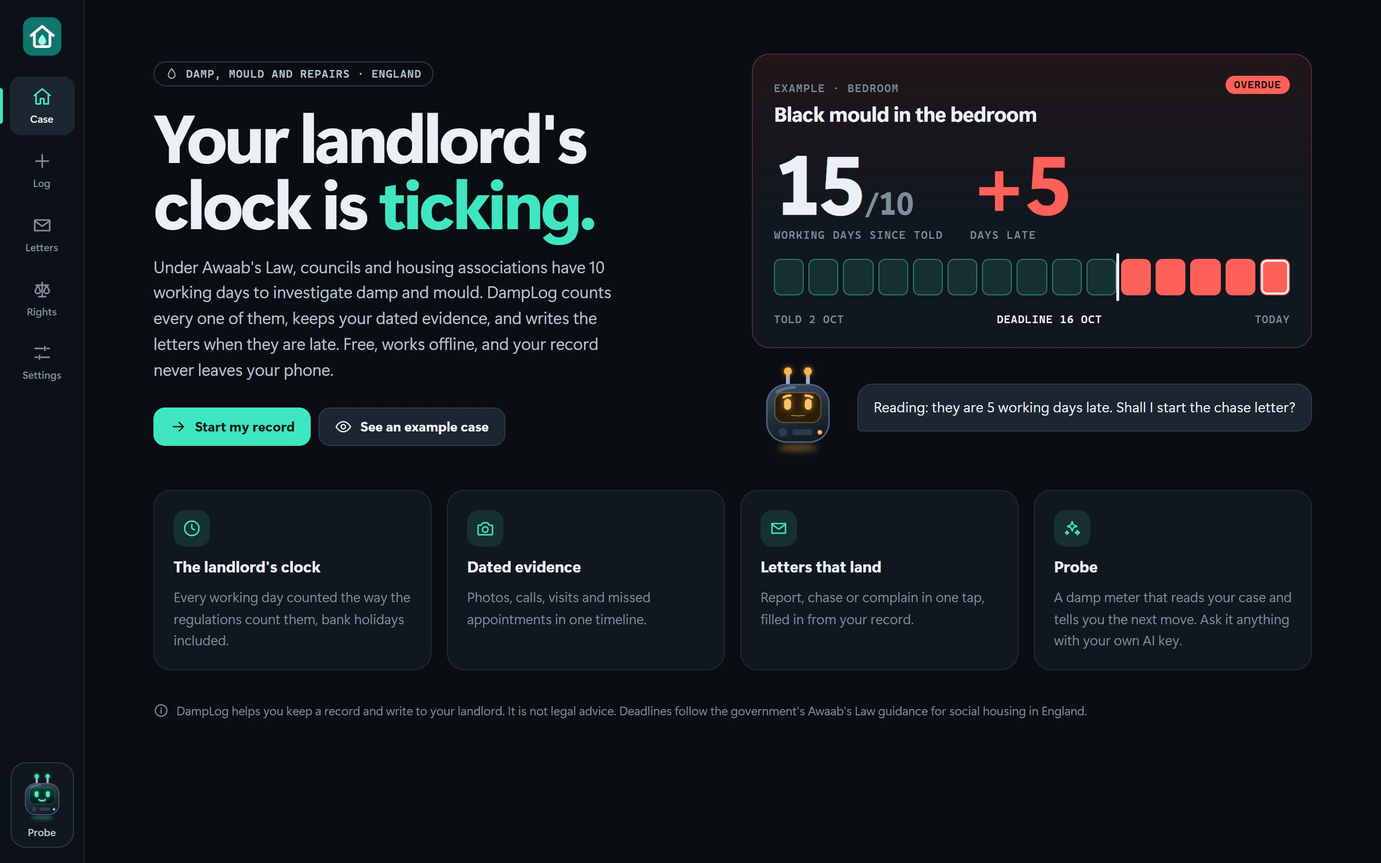
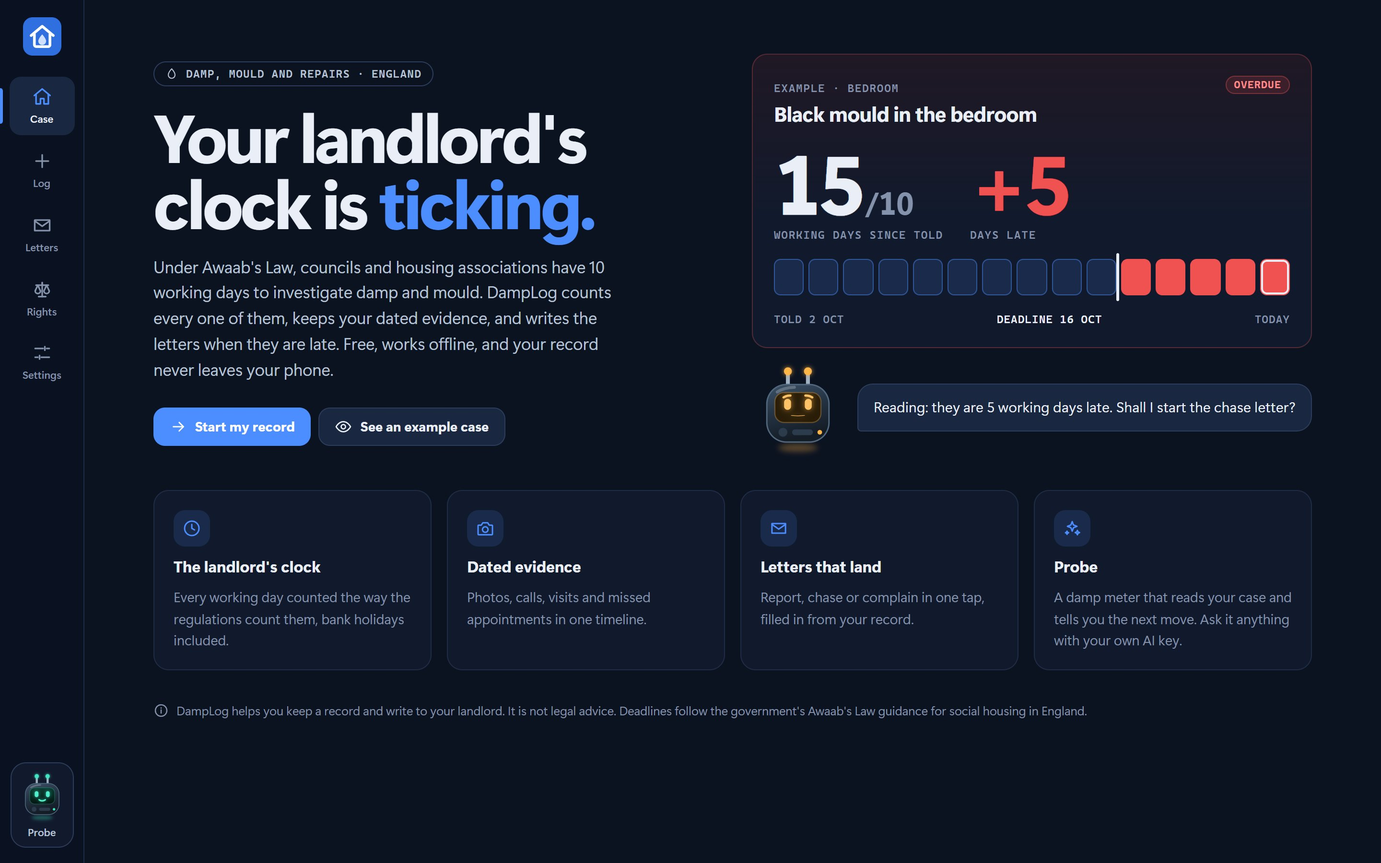
Business colours: navy and slate with one blue accent, calmer reds

diff --git a/css/styles.css b/css/styles.css
@@ -7,31 +7,31 @@
 
 :root {
   color-scheme: dark;
-  --bg: #0a0e13;
-  --panel: #11171e;
-  --panel-2: #161e27;
-  --panel-3: #1c2631;
-  --line: #1f2a35;
-  --line-strong: #2d3b4a;
-  --ink: #eaf0f5;
-  --ink-2: #b7c3ce;
-  --muted: #7f8d9a;
-  --accent: #3ee6c1;
-  --accent-ink: #032019;
-  --accent-soft: rgb(62 230 193 / 12%);
-  --bad: #ff6159;
-  --bad-soft: rgb(255 97 89 / 13%);
-  --warn: #ffb547;
-  --warn-soft: rgb(255 181 71 / 12%);
-  --ok: #5ee38f;
-  --ok-soft: rgb(94 227 143 / 12%);
-  --info: #7fb4ff;
-  --info-soft: rgb(127 180 255 / 12%);
-  --ai: #3ee6c1;
-  --ai-soft: rgb(62 230 193 / 10%);
-  --hover: #18212b;
+  --bg: #0b1220;
+  --panel: #111a2c;
+  --panel-2: #142036;
+  --panel-3: #1a2740;
+  --line: #1f2c45;
+  --line-strong: #2c3c5c;
+  --ink: #e9eef7;
+  --ink-2: #b8c3d6;
+  --muted: #8492ab;
+  --accent: #4c8dff;
+  --accent-ink: #ffffff;
+  --accent-soft: rgb(76 141 255 / 14%);
+  --bad: #f05252;
+  --bad-soft: rgb(240 82 82 / 14%);
+  --warn: #f5a524;
+  --warn-soft: rgb(245 165 36 / 13%);
+  --ok: #34c38f;
+  --ok-soft: rgb(52 195 143 / 13%);
+  --info: #60a5fa;
+  --info-soft: rgb(96 165 250 / 13%);
+  --ai: #4c8dff;
+  --ai-soft: rgb(76 141 255 / 10%);
+  --hover: #17223a;
   --radius: 10px;
-  --radius-lg: 18px;
+  --radius-lg: 16px;
   --font: "Segoe UI Variable Display", "Segoe UI", system-ui, -apple-system, "Helvetica Neue", Roboto, sans-serif;
   --mono: ui-monospace, "Cascadia Code", "SF Mono", Menlo, Consolas, monospace;
   --rail: 88px;
@@ -47,7 +47,7 @@
 .paper {
   --ink: #15191d; --ink-2: #39424a; --muted: #67717a; --line: #e3e3de; --line-strong: #c9c9c2;
   --panel: #ffffff; --panel-2: #f6f6f2; --panel-3: #ecece6; --surface: #ffffff; --surface-2: #f6f6f2; --surface-3: #ecece6;
-  --accent: #0b8a72; --accent-soft: #e2f4ef; --bad: #c0281d; --bad-soft: #fde9e7; --warn: #9a5b05; --warn-soft: #fcf2df; --ok: #177a45; --ok-soft: #e6f5ec;
+  --accent: #1d5bd8; --accent-soft: #e6eefc; --bad: #c0281d; --bad-soft: #fde9e7; --warn: #9a5b05; --warn-soft: #fcf2df; --ok: #177a45; --ok-soft: #e6f5ec;
   color-scheme: light; background: #fff; color: var(--ink);
 }
 
@@ -81,7 +81,7 @@ small, .small { font-size: 0.86rem; }
 
 /* ---------- shell: rail on desktop, top bar and dock on phones ---------- */
 
-.rail { position: fixed; inset: 0 auto 0 0; z-index: 20; width: var(--rail); display: flex; flex-direction: column; align-items: center; gap: 6px; padding: 18px 0 16px; background: #0c1117; border-right: 1px solid var(--line); }
+.rail { position: fixed; inset: 0 auto 0 0; z-index: 20; width: var(--rail); display: flex; flex-direction: column; align-items: center; gap: 6px; padding: 18px 0 16px; background: #0a1120; border-right: 1px solid var(--line); }
 .rail-logo { margin-bottom: 16px; }
 .rail-logo img { display: block; border-radius: 10px; }
 .rail-item { position: relative; width: 68px; display: flex; flex-direction: column; align-items: center; gap: 4px; padding: 10px 0 8px; border-radius: 12px; color: var(--muted); font-size: 0.68rem; font-weight: 600; text-decoration: none; }
@@ -140,7 +140,7 @@ main.enter > .page { animation: page-in 0.22s ease-out; }
 
 /* The clock */
 .clock { gap: 18px; }
-.clock.late { background: linear-gradient(180deg, rgb(255 97 89 / 9%), var(--panel) 55%); border-color: rgb(255 97 89 / 28%); }
+.clock.late { background: linear-gradient(180deg, rgb(240 82 82 / 9%), var(--panel) 55%); border-color: rgb(240 82 82 / 28%); }
 .clock-head { display: flex; justify-content: space-between; gap: 12px; align-items: flex-start; flex-wrap: wrap; }
 .clock-head h2 { font-size: 1.35rem; margin-top: 4px; }
 .clock-count { display: flex; align-items: flex-end; gap: 28px; flex-wrap: wrap; }
@@ -152,7 +152,7 @@ main.enter > .page { animation: page-in 0.22s ease-out; }
 .count.left .count-num { color: var(--accent); }
 .strip { display: grid; grid-auto-flow: column; grid-auto-columns: minmax(0, 1fr); gap: 5px; }
 .cell { position: relative; height: 38px; border-radius: 7px; border: 1px dashed var(--line-strong); }
-.cell.used { background: var(--accent-soft); border: 1px solid rgb(62 230 193 / 45%); }
+.cell.used { background: var(--accent-soft); border: 1px solid rgb(76 141 255 / 45%); }
 .cell.late { background: var(--bad); border: 1px solid var(--bad); }
 .cell.today { box-shadow: inset 0 0 0 2px var(--ink); }
 .cell.due::after { content: ""; position: absolute; right: -4px; top: -7px; bottom: -7px; width: 3px; border-radius: 2px; background: var(--ink); }
@@ -226,7 +226,7 @@ table.kv td { padding: 4px 0; }
 .badge { display: inline-flex; align-items: center; padding: 3px 9px; border-radius: 999px; font: 700 0.68rem var(--mono); letter-spacing: 0.06em; text-transform: uppercase; white-space: nowrap; color: var(--ink-2); background: var(--panel-3); }
 .badge.ok { background: var(--ok-soft); color: var(--ok); }
 .badge.warn { background: var(--warn-soft); color: var(--warn); }
-.badge.bad { background: var(--bad); color: #1a0504; }
+.badge.bad { background: var(--bad-soft); color: #ff8a8a; box-shadow: inset 0 0 0 1px rgb(240 82 82 / 35%); }
 .badge.info { background: var(--info-soft); color: var(--info); }
 
 /* ---------- forms and buttons ---------- */
@@ -240,9 +240,9 @@ table.kv td { padding: 4px 0; }
 .hint { color: var(--muted); font-size: 0.8rem; }
 .hint.error { color: var(--bad); }
 input, select, textarea, button { font: inherit; color: inherit; }
-input, select, textarea { width: 100%; padding: 10px 13px; border: 1px solid var(--line-strong); border-radius: var(--radius); background: #0b1016; color: var(--ink); color-scheme: dark; transition: border-color 0.12s, box-shadow 0.12s; }
+input, select, textarea { width: 100%; padding: 10px 13px; border: 1px solid var(--line-strong); border-radius: var(--radius); background: #0c1526; color: var(--ink); color-scheme: dark; transition: border-color 0.12s, box-shadow 0.12s; }
 input::placeholder, textarea::placeholder { color: #5d6b78; }
-input:focus, select:focus, textarea:focus { outline: none; border-color: var(--accent); box-shadow: 0 0 0 3px rgb(62 230 193 / 18%); }
+input:focus, select:focus, textarea:focus { outline: none; border-color: var(--accent); box-shadow: 0 0 0 3px rgb(76 141 255 / 18%); }
 .input-group { display: flex; gap: 6px; }
 
 .btn { display: inline-flex; align-items: center; justify-content: center; gap: 8px; height: 40px; padding: 0 16px; border-radius: 12px; border: 1px solid var(--line-strong); background: var(--panel-3); color: var(--ink); font-weight: 650; font-size: 0.88rem; white-space: nowrap; cursor: pointer; text-decoration: none; transition: background 0.12s, border-color 0.12s, transform 0.08s; }
@@ -251,12 +251,12 @@ input:focus, select:focus, textarea:focus { outline: none; border-color: var(--a
 .btn:disabled { opacity: 0.5; cursor: not-allowed; }
 .btn.sm { height: 34px; padding: 0 12px; font-size: 0.82rem; border-radius: 10px; }
 .btn.primary { background: var(--accent); border-color: var(--accent); color: var(--accent-ink); }
-.btn.primary:hover { background: #6cf0d3; border-color: #6cf0d3; }
+.btn.primary:hover { background: #6aa1ff; border-color: #6aa1ff; }
 .btn.ghost { background: transparent; border-color: transparent; color: var(--ink-2); }
 .btn.ghost:hover { background: var(--panel-3); }
-.btn.danger { background: var(--bad); border-color: var(--bad); color: #1a0504; }
-.btn.late { background: var(--bad); border-color: var(--bad); color: #1a0504; }
-.btn.late:hover { background: #ff7d76; border-color: #ff7d76; }
+.btn.danger { background: var(--bad); border-color: var(--bad); color: #ffffff; }
+.btn.late { background: var(--bad); border-color: var(--bad); color: #ffffff; }
+.btn.late:hover { background: #f36c6c; border-color: #f36c6c; }
 .btn:not(:has(span)) { padding: 0; width: 40px; }
 .btn.sm:not(:has(span)) { width: 34px; }
 .actions { display: flex; gap: 8px; flex-wrap: wrap; align-items: center; }
@@ -285,7 +285,7 @@ input:focus, select:focus, textarea:focus { outline: none; border-color: var(--a
 .notice.ok > .icon { color: var(--ok); }
 .notice.warn { border-left-color: var(--warn); }
 .notice.warn > .icon { color: var(--warn); }
-.notice.bad { border-left-color: var(--bad); background: rgb(255 97 89 / 8%); }
+.notice.bad { border-left-color: var(--bad); background: rgb(240 82 82 / 8%); }
 .notice.bad > .icon, .notice.bad strong { color: var(--bad); }
 .notice.info { border-left-color: var(--info); }
 .notice.info > .icon { color: var(--info); }
@@ -328,7 +328,7 @@ button.thumb { cursor: zoom-in; transition: transform 0.15s; }
 button.thumb:nth-child(odd) { transform: rotate(-1.5deg); }
 button.thumb:nth-child(even) { transform: rotate(1.2deg); }
 button.thumb:hover { transform: rotate(0) scale(1.04); }
-.thumb-remove { position: absolute; top: 6px; right: 6px; display: grid; place-items: center; width: 24px; height: 24px; padding: 0; border: 0; border-radius: 50%; background: rgb(10 14 19 / 80%); color: #fff; cursor: pointer; }
+.thumb-remove { position: absolute; top: 6px; right: 6px; display: grid; place-items: center; width: 24px; height: 24px; padding: 0; border: 0; border-radius: 50%; background: rgb(11 18 32 / 80%); color: #fff; cursor: pointer; }
 .photo-dialog { width: min(980px, calc(100vw - 32px)); padding: 12px; }
 .photo-dialog img { display: block; width: 100%; max-height: 76vh; object-fit: contain; border-radius: 10px; background: #000; }
 .photo-caption { display: flex; align-items: center; justify-content: space-between; gap: 12px; padding: 10px 4px 0; font: 0.8rem var(--mono); color: var(--muted); }
@@ -341,7 +341,7 @@ button.thumb:hover { transform: rotate(0) scale(1.04); }
 .step-dot { display: grid; place-items: center; width: 28px; height: 28px; border-radius: 9px; background: var(--panel-3); color: var(--muted); }
 .step-dot.ok { background: var(--ok-soft); color: var(--ok); }
 .step-dot.warn { background: var(--warn-soft); color: var(--warn); }
-.step-dot.bad { background: var(--bad); color: #1a0504; }
+.step-dot.bad { background: var(--bad-soft); color: var(--bad); }
 .step-dot.info { background: var(--info-soft); color: var(--info); }
 .step-text { display: flex; flex-direction: column; gap: 2px; min-width: 0; }
 .step-title { display: flex; align-items: center; gap: 8px; flex-wrap: wrap; }
@@ -355,9 +355,9 @@ button.thumb:hover { transform: rotate(0) scale(1.04); }
 .tl-item { position: relative; display: grid; grid-template-columns: auto minmax(0, 1fr); gap: 14px; padding-bottom: 22px; }
 .tl-item:last-child { padding-bottom: 0; }
 .tl-dot { position: relative; z-index: 1; display: grid; place-items: center; width: 30px; height: 30px; border-radius: 10px; background: var(--panel-3); border: 1px solid var(--line-strong); color: var(--ink-2); }
-.tl-reported .tl-dot, .tl-complaint .tl-dot { background: var(--accent-soft); border-color: rgb(62 230 193 / 40%); color: var(--accent); }
+.tl-reported .tl-dot, .tl-complaint .tl-dot { background: var(--accent-soft); border-color: rgb(76 141 255 / 40%); color: var(--accent); }
 .tl-investigation .tl-dot, .tl-summary .tl-dot, .tl-made-safe .tl-dot, .tl-works .tl-dot, .tl-fixed .tl-dot { background: var(--ok-soft); border-color: rgb(94 227 143 / 35%); color: var(--ok); }
-.tl-missed .tl-dot, .tl-health .tl-dot { background: var(--bad-soft); border-color: rgb(255 97 89 / 40%); color: var(--bad); }
+.tl-missed .tl-dot, .tl-health .tl-dot { background: var(--bad-soft); border-color: rgb(240 82 82 / 40%); color: var(--bad); }
 .tl-body { display: flex; flex-direction: column; gap: 8px; min-width: 0; padding-top: 4px; }
 .tl-body p { margin: 0; color: var(--ink-2); }
 .tl-head { display: flex; align-items: baseline; gap: 10px; flex-wrap: wrap; }
@@ -374,7 +374,7 @@ button.thumb:hover { transform: rotate(0) scale(1.04); }
 .letter-kind[aria-selected="true"] { border-color: var(--accent); background: var(--accent-soft); }
 .letter-kind[aria-selected="true"] strong { color: var(--accent); }
 .letter-body { background: #fbfaf6; color: #15191d; color-scheme: light; border: 0; border-radius: 6px; padding: 30px 34px; font: 1rem/1.7 Georgia, "Times New Roman", serif; min-height: 420px; resize: vertical; box-shadow: 0 18px 40px rgb(0 0 0 / 45%); }
-.letter-body:focus { box-shadow: 0 18px 40px rgb(0 0 0 / 45%), 0 0 0 3px rgb(62 230 193 / 35%); }
+.letter-body:focus { box-shadow: 0 18px 40px rgb(0 0 0 / 45%), 0 0 0 3px rgb(76 141 255 / 35%); }
 .tips { margin: 0; padding-left: 18px; color: var(--ink-2); }
 .tips li + li { margin-top: 6px; }
 .print-letter { display: none; }
@@ -404,7 +404,7 @@ button.thumb:hover { transform: rotate(0) scale(1.04); }
 .privacy { background: var(--panel-3); border-radius: 12px; padding: 13px 16px; font-size: 0.86rem; color: var(--ink-2); }
 .privacy ul { margin: 6px 0 8px; }
 .privacy li + li { margin-top: 4px; }
-.danger-zone { border-color: rgb(255 97 89 / 25%); }
+.danger-zone { border-color: rgb(240 82 82 / 25%); }
 .danger-zone .card-icon { background: var(--bad-soft); color: var(--bad); }
 .danger-zone .btn { align-self: flex-start; }
 .scope-note { display: flex; align-items: flex-start; gap: 8px; margin: 4px 0 0; color: var(--muted); font-size: 0.8rem; }
@@ -415,7 +415,7 @@ button.thumb:hover { transform: rotate(0) scale(1.04); }
 .ai-settings .card-icon { background: var(--accent-soft); color: var(--accent); }
 .ai-row { display: flex; align-items: center; gap: 10px; flex-wrap: wrap; }
 .ai-slot:empty { display: none; }
-.ai-review { display: flex; flex-direction: column; gap: 12px; padding: 15px 16px; border: 1px solid rgb(62 230 193 / 30%); border-radius: 14px; background: rgb(62 230 193 / 6%); }
+.ai-review { display: flex; flex-direction: column; gap: 12px; padding: 15px 16px; border: 1px solid rgb(76 141 255 / 30%); border-radius: 14px; background: rgb(76 141 255 / 6%); }
 .ai-review-head { display: flex; gap: 10px; align-items: flex-start; }
 .ai-review-head div { display: flex; flex-direction: column; }
 .ai-review-head small { color: var(--muted); font-size: 0.82rem; }
@@ -508,7 +508,7 @@ button.thumb:hover { transform: rotate(0) scale(1.04); }
 @keyframes pb-pop { from { transform: scale(0.5) translateY(10px); opacity: 0; } }
 
 /* Probe's panel: slides in from the right, a sheet on phones */
-.probe-panel { position: fixed; inset: 0 0 0 auto; margin: 0; height: 100%; max-height: none; max-width: none; width: min(480px, 100vw); padding: 0; border: 0; border-left: 1px solid var(--line-strong); border-radius: 0; background: linear-gradient(180deg, #111a23, #0c131a 40%); color: var(--ink); display: none; flex-direction: column; animation: panel-in 0.28s cubic-bezier(0.2, 0.8, 0.2, 1); }
+.probe-panel { position: fixed; inset: 0 0 0 auto; margin: 0; height: 100%; max-height: none; max-width: none; width: min(480px, 100vw); padding: 0; border: 0; border-left: 1px solid var(--line-strong); border-radius: 0; background: linear-gradient(180deg, #111b2e, #0b1220 40%); color: var(--ink); display: none; flex-direction: column; animation: panel-in 0.28s cubic-bezier(0.2, 0.8, 0.2, 1); }
 .probe-panel[open] { display: flex; }
 .probe-panel:focus { outline: none; }
 .probe-panel::backdrop { background: rgb(4 7 10 / 60%); -webkit-backdrop-filter: blur(3px); backdrop-filter: blur(3px); }
@@ -518,7 +518,7 @@ button.thumb:hover { transform: rotate(0) scale(1.04); }
 /* Wide screens: Probe docked as a copilot column on the right of every page */
 .probe-dock { display: none; }
 @media (min-width: 1280px) {
-  body.probe-docked .probe-dock { position: fixed; top: 0; right: 0; bottom: 0; z-index: 18; width: 400px; display: flex; flex-direction: column; background: linear-gradient(180deg, #111a23, #0c131a 40%); border-left: 1px solid var(--line-strong); color: var(--ink); }
+  body.probe-docked .probe-dock { position: fixed; top: 0; right: 0; bottom: 0; z-index: 18; width: 400px; display: flex; flex-direction: column; background: linear-gradient(180deg, #111b2e, #0b1220 40%); border-left: 1px solid var(--line-strong); color: var(--ink); }
   body.probe-docked .stage { margin-right: 400px; }
   body.probe-docked .rail-probe { display: none; }
   .probe-dock .pp-stage { height: 200px; }
@@ -535,8 +535,8 @@ button.thumb:hover { transform: rotate(0) scale(1.04); }
 .pp-title h2 { font-size: 1.3rem; }
 .pp-status { display: flex; align-items: center; gap: 7px; font-size: 0.8rem; color: var(--muted); white-space: nowrap; overflow: hidden; text-overflow: ellipsis; }
 .pp-status i { flex: none; }
-.pp-status i { width: 7px; height: 7px; border-radius: 50%; background: var(--accent); box-shadow: 0 0 0 3px rgb(62 230 193 / 18%); animation: pb-tip 1.8s ease-in-out infinite; }
-.pp-status.bad i { background: var(--bad); box-shadow: 0 0 0 3px rgb(255 97 89 / 18%); }
+.pp-status i { width: 7px; height: 7px; border-radius: 50%; background: var(--accent); box-shadow: 0 0 0 3px rgb(76 141 255 / 18%); animation: pb-tip 1.8s ease-in-out infinite; }
+.pp-status.bad i { background: var(--bad); box-shadow: 0 0 0 3px rgb(240 82 82 / 18%); }
 .pp-tools { margin-left: auto; display: flex; gap: 6px; }
 .pp-tools .btn { width: 36px; height: 36px; border-radius: 10px; background: transparent; }
 .pp-context { display: flex; align-items: center; gap: 12px; padding: 12px 20px; border-bottom: 1px solid var(--line); background: rgb(255 255 255 / 2%); }
@@ -545,7 +545,7 @@ button.thumb:hover { transform: rotate(0) scale(1.04); }
 .pp-context strong { font-size: 0.9rem; white-space: nowrap; overflow: hidden; text-overflow: ellipsis; }
 .pp-context strong span { color: var(--muted); font-weight: 500; }
 .pp-pill { flex: none; padding: 4px 10px; border-radius: 8px; border: 1px solid var(--line-strong); font: 700 0.72rem var(--mono); color: var(--ink-2); }
-.pp-pill.bad { border-color: rgb(255 97 89 / 45%); color: var(--bad); background: var(--bad-soft); }
+.pp-pill.bad { border-color: rgb(240 82 82 / 45%); color: var(--bad); background: var(--bad-soft); }
 
 .panel-body { flex: 1; overflow-y: auto; padding: 0 20px 18px; display: flex; flex-direction: column; }
 .panel-foot { padding: 12px 18px calc(12px + env(safe-area-inset-bottom)); display: flex; flex-direction: column; gap: 8px; }
@@ -570,7 +570,7 @@ button.thumb:hover { transform: rotate(0) scale(1.04); }
 .pp-stage.alert .pp-orbit { border-color: rgb(255 181 71 / 22%); }
 .pp-stage.alert .pp-orbit.o1 { border-top-color: rgb(255 181 71 / 70%); }
 @keyframes pp-spin { to { transform: translate(-50%, -50%) rotate(360deg); } }
-.pp-spark { position: absolute; width: 6px; height: 6px; border-radius: 50%; background: var(--accent); box-shadow: 0 0 10px var(--accent); animation: pp-drift 6s ease-in-out infinite; }
+.pp-spark { position: absolute; width: 6px; height: 6px; border-radius: 50%; background: #3ee6c1; box-shadow: 0 0 10px #3ee6c1; animation: pp-drift 6s ease-in-out infinite; }
 .pp-spark.s1 { left: 72%; top: 22%; }
 .pp-spark.s2 { left: 22%; top: 62%; width: 4px; height: 4px; animation-delay: -2s; }
 .pp-spark.s3 { left: 78%; top: 70%; width: 3px; height: 3px; animation-delay: -4s; }
@@ -578,7 +578,7 @@ button.thumb:hover { transform: rotate(0) scale(1.04); }
 @keyframes pp-drift { 0%, 100% { transform: translate(0, 0); opacity: 0.9; } 50% { transform: translate(-8px, -14px); opacity: 0.35; } }
 .pp-tag, .pp-meter { position: absolute; bottom: 22px; font: 600 0.72rem var(--mono); letter-spacing: 0.14em; color: var(--muted); }
 .pp-tag { left: 34px; }
-.pp-meter { right: 34px; display: flex; align-items: flex-end; gap: 8px; color: var(--accent); }
+.pp-meter { right: 34px; display: flex; align-items: flex-end; gap: 8px; color: #3ee6c1; }
 .pp-stage.alert .pp-meter { color: var(--warn); }
 .pp-bars { display: inline-flex; align-items: flex-end; gap: 2px; height: 14px; }
 .pp-bars i { width: 3px; height: 100%; border-radius: 1px; background: currentColor; transform-origin: bottom; animation: pb-bar 1.1s ease-in-out infinite; }
@@ -597,12 +597,12 @@ button.thumb:hover { transform: rotate(0) scale(1.04); }
 
 .pp-cards { display: flex; flex-direction: column; gap: 10px; margin-top: 4px; }
 .pp-card { display: flex; align-items: center; gap: 14px; width: 100%; padding: 14px 16px; border-radius: 14px; border: 1px solid var(--line-strong); background: rgb(255 255 255 / 3%); color: var(--ink); font: inherit; text-align: left; cursor: pointer; transition: border-color 0.15s, background 0.15s, transform 0.15s; }
-.pp-card:hover { border-color: rgb(62 230 193 / 55%); background: rgb(62 230 193 / 6%); transform: translateY(-1px); }
+.pp-card:hover { border-color: rgb(76 141 255 / 55%); background: rgb(76 141 255 / 6%); transform: translateY(-1px); }
 .pp-card > .icon { color: var(--muted); flex: none; transition: transform 0.15s, color 0.15s; }
 .pp-card:hover > .icon { color: var(--accent); transform: translate(2px, -2px); }
-.pp-card-icon { display: grid; place-items: center; width: 40px; height: 40px; border-radius: 12px; background: rgb(62 230 193 / 12%); color: var(--accent); flex: none; }
-.pp-card.bad { border-color: rgb(255 97 89 / 40%); background: rgb(255 97 89 / 7%); }
-.pp-card.bad .pp-card-icon { background: var(--bad); color: #1a0504; }
+.pp-card-icon { display: grid; place-items: center; width: 40px; height: 40px; border-radius: 12px; background: rgb(76 141 255 / 12%); color: var(--accent); flex: none; }
+.pp-card.bad { border-color: rgb(240 82 82 / 40%); background: rgb(240 82 82 / 7%); }
+.pp-card.bad .pp-card-icon { background: var(--bad); color: #ffffff; }
 .pp-card.bad:hover { border-color: var(--bad); }
 .pp-card.warn .pp-card-icon { background: var(--warn-soft); color: var(--warn); }
 .pp-card-text { flex: 1; display: flex; flex-direction: column; gap: 1px; min-width: 0; }
@@ -610,8 +610,8 @@ button.thumb:hover { transform: rotate(0) scale(1.04); }
 .pp-card-text small { color: var(--muted); font-size: 0.82rem; }
 
 /* The composer */
-.pp-composer { display: flex; flex-direction: column; gap: 6px; padding: 12px 12px 10px 14px; border-radius: 16px; border: 1px solid rgb(62 230 193 / 35%); background: #0a1117; transition: border-color 0.15s, box-shadow 0.15s; }
-.pp-composer:focus-within { border-color: var(--accent); box-shadow: 0 0 0 3px rgb(62 230 193 / 14%); }
+.pp-composer { display: flex; flex-direction: column; gap: 6px; padding: 12px 12px 10px 14px; border-radius: 16px; border: 1px solid rgb(76 141 255 / 35%); background: #0c1526; transition: border-color 0.15s, box-shadow 0.15s; }
+.pp-composer:focus-within { border-color: var(--accent); box-shadow: 0 0 0 3px rgb(76 141 255 / 14%); }
 .pp-composer textarea { border: 0; background: none; padding: 0; resize: none; box-shadow: none; font-size: 0.98rem; min-height: 46px; max-height: 180px; }
 .pp-composer textarea:focus { box-shadow: none; }
 .pp-composer-foot { display: flex; align-items: center; gap: 10px; }
@@ -657,9 +657,9 @@ button.thumb:hover { transform: rotate(0) scale(1.04); }
 .sheet > .btn { width: 100%; }
 .toasts { position: fixed; left: 50%; bottom: 24px; transform: translateX(-50%); z-index: 60; display: flex; flex-direction: column; gap: 8px; width: min(460px, calc(100vw - 32px)); pointer-events: none; }
 .toast { display: flex; align-items: center; gap: 10px; padding: 12px 15px; border-radius: 14px; background: var(--ink); color: var(--bg); font-weight: 650; font-size: 0.9rem; animation: rise 0.18s ease-out; }
-.toast .icon { flex: none; color: #0b8a72; }
-.toast.bad { background: var(--bad); color: #1a0504; }
-.toast.bad .icon { color: #1a0504; }
+.toast .icon { flex: none; color: #2f6fe0; }
+.toast.bad { background: var(--bad); color: #ffffff; }
+.toast.bad .icon { color: #ffffff; }
 @keyframes rise { from { opacity: 0; transform: translateY(6px); } }
 
 /* ---------- phones ---------- */
@@ -669,11 +669,11 @@ button.thumb:hover { transform: rotate(0) scale(1.04); }
   .stage { margin-left: 0; }
   main { padding: 18px 16px calc(110px + env(safe-area-inset-bottom)); }
   h1 { font-size: 1.7rem; }
-  .mobile-top { position: sticky; top: 0; z-index: 15; display: flex; align-items: center; gap: 10px; height: calc(56px + env(safe-area-inset-top)); padding: env(safe-area-inset-top) 16px 0; background: rgb(10 14 19 / 88%); -webkit-backdrop-filter: blur(14px); backdrop-filter: blur(14px); border-bottom: 1px solid var(--line); }
+  .mobile-top { position: sticky; top: 0; z-index: 15; display: flex; align-items: center; gap: 10px; height: calc(56px + env(safe-area-inset-top)); padding: env(safe-area-inset-top) 16px 0; background: rgb(11 18 32 / 88%); -webkit-backdrop-filter: blur(14px); backdrop-filter: blur(14px); border-bottom: 1px solid var(--line); }
   .mobile-top .brand { display: flex; align-items: center; gap: 9px; color: var(--ink); font-weight: 800; font-size: 1.05rem; letter-spacing: -0.02em; }
   .mobile-top .brand img { border-radius: 8px; }
   .mobile-top .btn { margin-left: auto; }
-  .dock { position: fixed; left: 12px; right: 12px; bottom: calc(10px + env(safe-area-inset-bottom)); z-index: 25; display: grid; grid-template-columns: repeat(5, 1fr); align-items: end; height: 66px; padding: 0 6px 8px; border-radius: 22px; background: rgb(17 23 30 / 92%); -webkit-backdrop-filter: blur(16px); backdrop-filter: blur(16px); border: 1px solid var(--line-strong); box-shadow: 0 18px 40px rgb(0 0 0 / 50%); }
+  .dock { position: fixed; left: 12px; right: 12px; bottom: calc(10px + env(safe-area-inset-bottom)); z-index: 25; display: grid; grid-template-columns: repeat(5, 1fr); align-items: end; height: 66px; padding: 0 6px 8px; border-radius: 22px; background: rgb(17 26 44 / 92%); -webkit-backdrop-filter: blur(16px); backdrop-filter: blur(16px); border: 1px solid var(--line-strong); box-shadow: 0 18px 40px rgb(0 0 0 / 50%); }
   .dock-item { display: flex; flex-direction: column; align-items: center; gap: 3px; color: var(--muted); font-size: 0.66rem; font-weight: 650; padding: 0; border: 0; background: none; cursor: pointer; }
   .dock-item:hover { text-decoration: none; }
   .dock-item[aria-current="page"] { color: var(--accent); }

diff --git a/index.html b/index.html
@@ -6,7 +6,7 @@
   <meta http-equiv="Content-Security-Policy" content="default-src 'self'; script-src 'self'; style-src 'self'; img-src 'self' blob: data:; connect-src 'self' https://api.openai.com https://api.anthropic.com; object-src 'none'; base-uri 'self'; form-action 'self'">
   <title>DampLog</title>
   <meta name="description" content="Free evidence log for damp, mould and repairs in rented homes. Tracks Awaab's Law deadlines and writes your letters. Works offline; your record stays on your device.">
-  <meta name="theme-color" content="#0a0e13">
+  <meta name="theme-color" content="#0b1220">
   <meta name="apple-mobile-web-app-capable" content="yes">
   <meta name="apple-mobile-web-app-status-bar-style" content="black-translucent">
   <meta name="apple-mobile-web-app-title" content="DampLog">

diff --git a/sw.js b/sw.js
@@ -1,7 +1,7 @@
 // Offline support: serve the app from the cache, refresh the cache in the background.
 // Bump CACHE on every release so old files are dropped.
 
-const CACHE = 'damplog-v3';
+const CACHE = 'damplog-v4';
 const SHELL = [
   './',
   'index.html',

diff --git a/README.md b/README.md
@@ -9,9 +9,9 @@
 [**Live app**](https://talhaali-tech-engineer.github.io/DampLog/) &nbsp;·&nbsp; [Screenshots](#screenshots) &nbsp;·&nbsp; [How the deadlines are counted](#how-the-deadlines-are-counted) &nbsp;·&nbsp; [Run it locally](#run-it-locally)
 
 [![Tests](https://github.com/talhaali-tech-engineer/DampLog/actions/workflows/test.yml/badge.svg)](https://github.com/talhaali-tech-engineer/DampLog/actions/workflows/test.yml)
-![License: MIT](https://img.shields.io/badge/license-MIT-0f766e)
-![Dependencies: none](https://img.shields.io/badge/dependencies-none-0f766e)
-![Works offline](https://img.shields.io/badge/works-offline-0f766e)
+![License: MIT](https://img.shields.io/badge/license-MIT-2f6fe0)
+![Dependencies: none](https://img.shields.io/badge/dependencies-none-2f6fe0)
+![Works offline](https://img.shields.io/badge/works-offline-2f6fe0)
 
 </div>
 
